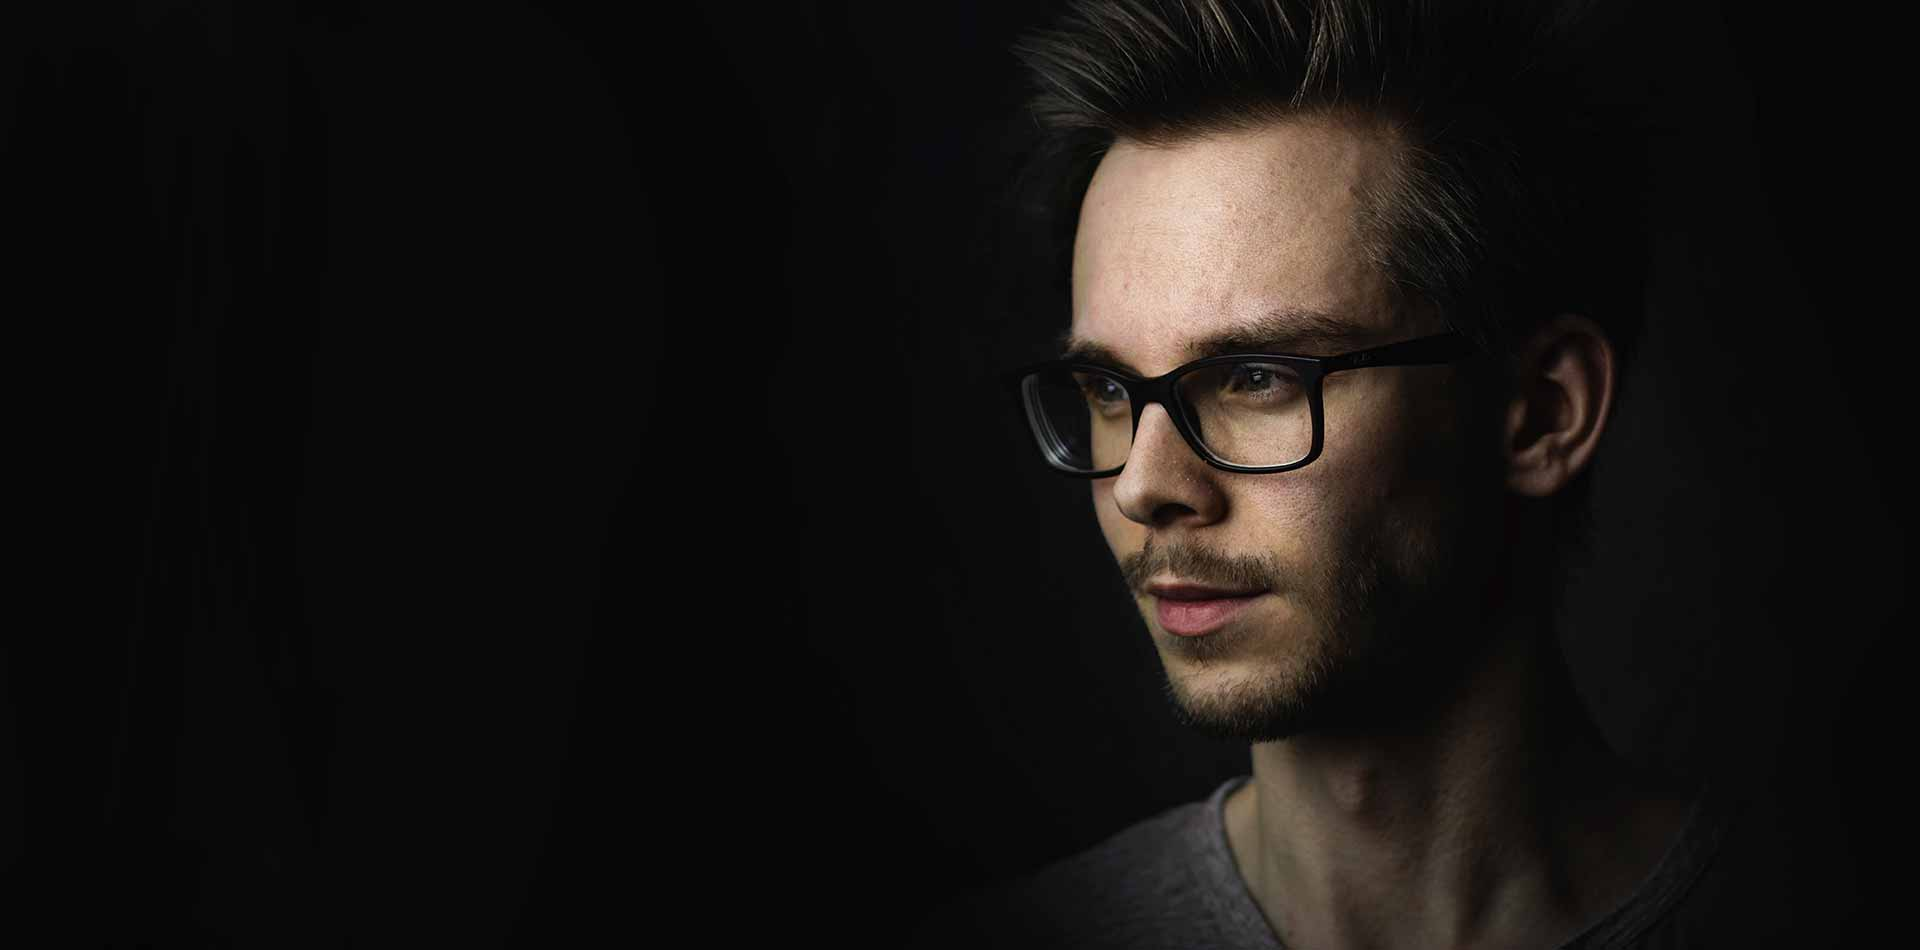
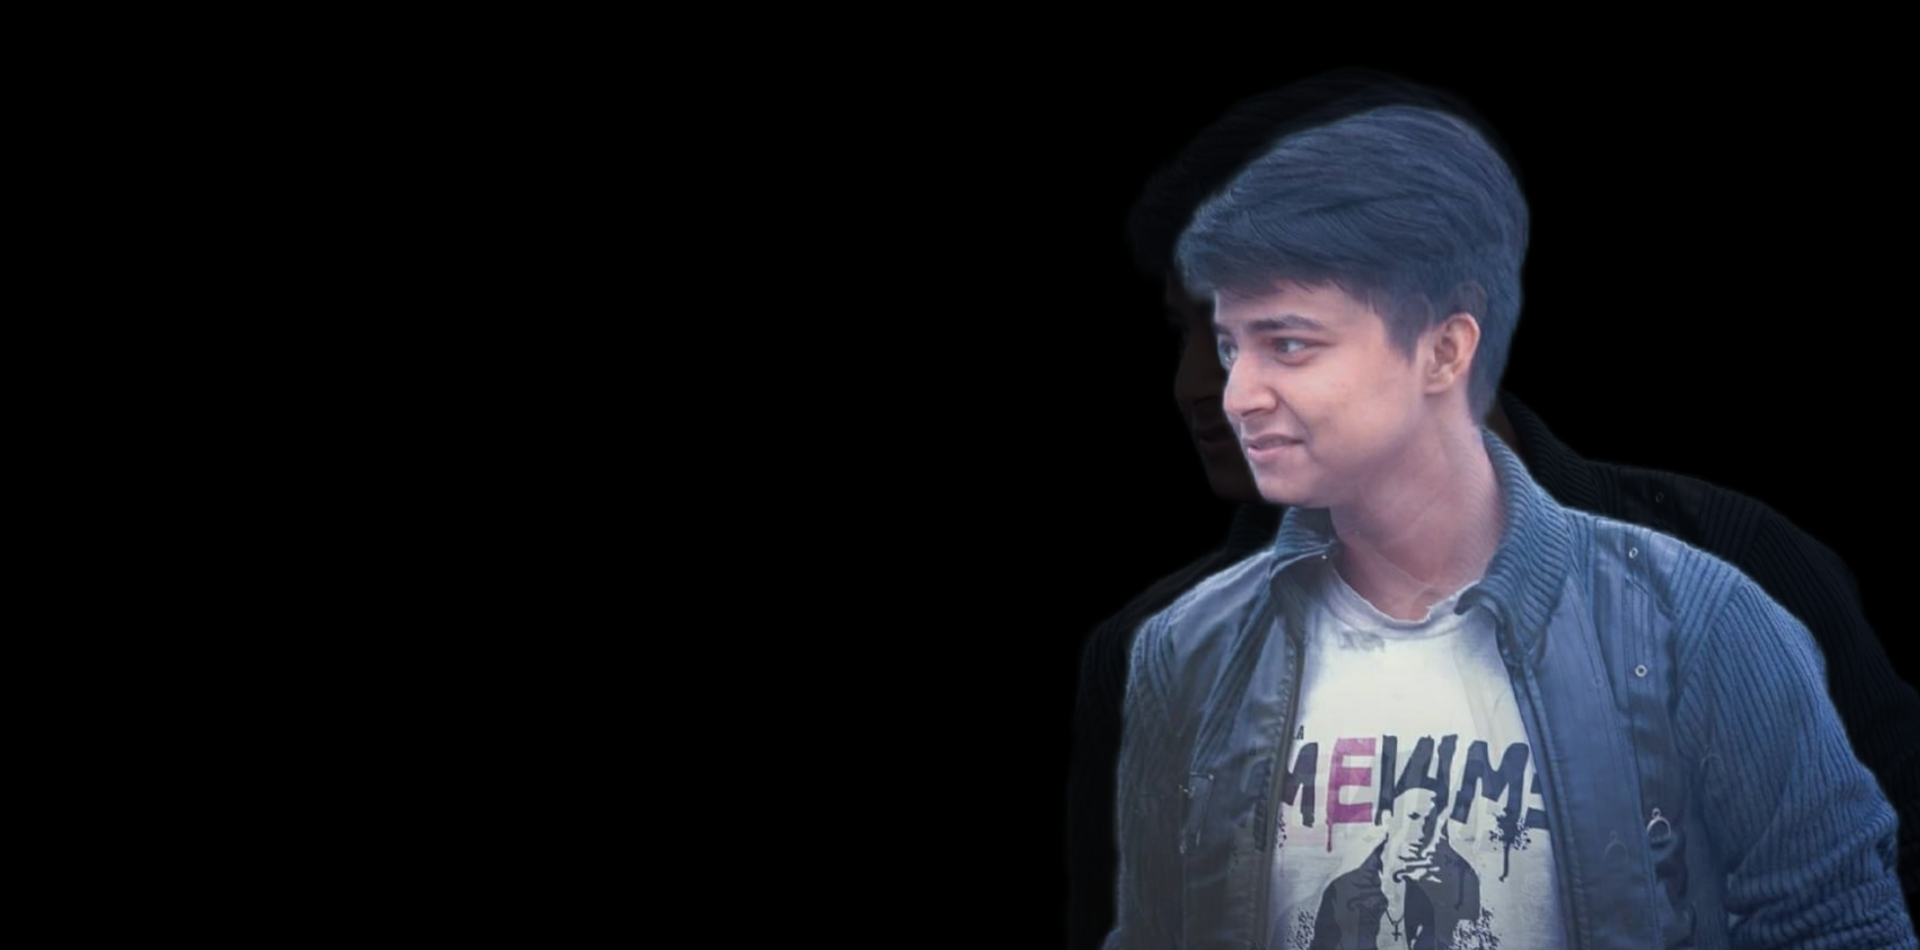
Update

Changed region(s): [[0.5312, 0.0, 1.0, 1.0]]

diff --git a/src/Service.js b/src/Service.js
@@ -6,12 +6,9 @@ function Service() {
     <div className="service component__space" id="Services">
 
       <div className="heading">
-        <h1 className="heading">My Awesome Service</h1>
+        <h1 className="heading">My Skills ?</h1>
         <p className="heading p__color">
-          There are many variations of passages of Lorem Ipsum available,
-        </p>
-        <p className="heading p__color">
-          but the majority have suffered alteration.
+          What do I know ?
         </p>
       </div>
 
@@ -36,14 +33,14 @@ function Service() {
                 </svg>
               </div>
               <div className="service__meta">
-                <h1 className="service__text">Business Stratagy</h1>
+                <h1 className="service__text">Website Development</h1>
                 <p className="p service__text p__color">
-                  I throw myself down among the
+                  I am just a kid who is interested
                 </p>
                 <p className="p service__text p__color">
-                  tall grass by the stream as I lie
+                   in Fullstack Website
                 </p>
-                <p className="p service__text p__color">close to the earth.</p>
+                <p className="p service__text p__color"> Development using MERN.</p>
               </div>
             </div>
           </div>
@@ -68,14 +65,83 @@ function Service() {
                 </svg>
               </div>
               <div className="service__meta">
-                <h1 className="service__text">Website Development</h1>
+                <h1 className="service__text">UI/UX Designing</h1>
                 <p className="p service__text p__color">
-                  I throw myself down among the
+                  I'm also having interest in finding
                 </p>
                 <p className="p service__text p__color">
-                  tall grass by the stream as I lie
+                  creative and practical solutions
                 </p>
-                <p className="p service__text p__color">close to the earth.</p>
+                <p className="p service__text p__color">
+                   to solve the users’ problems.
+                </p>
+              </div>
+            </div>
+          </div>
+
+          <div className="col__3">
+            <div className="service__box pointer">
+              <div className="icon">
+                <svg
+                  stroke="currentColor"
+                  fill="currentColor"
+                  stroke-width="2"
+                  viewBox="0 0 16 16"
+                  class="bi bi-phone"
+                  height="1em"
+                  width="1em"
+                  xmlns="http://www.w3.org/2000/svg"
+                >
+                  <path d="M11 1a1 1 0 0 1 1 1v12a1 1 0 0 1-1 1H5a1 1 0 0 1-1-1V2a1 1 0 0 1 1-1h6zM5 0a2 2 0 0 0-2 2v12a2 2 0 0 0 2 2h6a2 2 0 0 0 2-2V2a2 2 0 0 0-2-2H5z"/>
+                  <path d="M8 14a1 1 0 1 0 0-2 1 1 0 0 0 0 2z"/>
+
+                </svg>
+
+
+              </div>
+              <div className="service__meta">
+                <h1 className="service__text">Mobile App Development</h1>
+                <p className="p service__text p__color">
+                  I'm also trying to build mobile
+                </p>
+                <p className="p service__text p__color">
+                  applications using React Native
+                </p>
+                <p className="p service__text p__color">as well as a bit of Flutter.</p>
+              </div>
+            </div>
+          </div>
+
+
+          <div className="col__3">
+            <div className="service__box pointer">
+              <div className="icon">
+                <svg
+                  stroke="currentColor"
+                  fill="none"
+                  stroke-width="2"
+                  viewBox="0 0 24 24"
+                  stroke-linecap="round"
+                  stroke-linejoin="round"
+                  height="1em"
+                  width="1em"
+                  xmlns="http://www.w3.org/2000/svg"
+                >
+                  <path d="M14 1a1 1 0 0 1 1 1v12a1 1 0 0 1-1 1H2a1 1 0 0 1-1-1V2a1 1 0 0 1 1-1h12zM2 0a2 2 0 0 0-2 2v12a2 2 0 0 0 2 2h12a2 2 0 0 0 2-2V2a2 2 0 0 0-2-2H2z"/>
+                  <path d="M6.854 4.646a.5.5 0 0 1 0 .708L4.207 8l2.647 2.646a.5.5 0 0 1-.708.708l-3-3a.5.5 0 0 1 0-.708l3-3a.5.5 0 0 1 .708 0zm2.292 0a.5.5 0 0 0 0 .708L11.793 8l-2.647 2.646a.5.5 0 0 0 .708.708l3-3a.5.5 0 0 0 0-.708l-3-3a.5.5 0 0 0-.708 0z"/>
+                </svg>
+              </div>
+              <div className="service__meta">
+                <h1 className="service__text">Problem Solving</h1>
+                <p className="p service__text p__color">
+                  I also solve coding problems based on C and C ++ languages on Codechef, Hackerrank,
+                </p>
+                <p className="p service__text p__color">
+                  Codeforces as well as Leetcode.
+                </p>
+                <p className="p service__text p__color">
+
+                </p>
               </div>
             </div>
           </div>
@@ -101,114 +167,21 @@ function Service() {
                 </svg>
               </div>
               <div className="service__meta">
-                <h1 className="service__text">Marketing & Reporting</h1>
+                <h1 className="service__text">Leadership</h1>
                 <p className="p service__text p__color">
-                  I throw myself down among the
+                  I'm also a guy having leadership
                 </p>
                 <p className="p service__text p__color">
-                  tall grass by the stream as I lie
+                  skills who has worked as a team in
                 </p>
-                <p className="p service__text p__color">close to the earth.</p>
+                <p className="p service__text p__color">
+                  hackathons and projects.
+                </p>
               </div>
             </div>
           </div>
 
-          <div className="col__3">
-            <div className="service__box pointer">
-              <div className="icon">
-                <svg
-                  stroke="currentColor"
-                  fill="none"
-                  stroke-width="2"
-                  viewBox="0 0 24 24"
-                  stroke-linecap="round"
-                  stroke-linejoin="round"
-                  height="1em"
-                  width="1em"
-                  xmlns="http://www.w3.org/2000/svg"
-                >
-                  <rect x="2" y="3" width="20" height="14" rx="2" ry="2"></rect>
-                  <line x1="8" y1="21" x2="16" y2="21"></line>
-                  <line x1="12" y1="17" x2="12" y2="21"></line>
-                </svg>
-              </div>
-              <div className="service__meta">
-                <h1 className="service__text">Mobile App Development</h1>
-                <p className="p service__text p__color">
-                  I throw myself down among the
-                </p>
-                <p className="p service__text p__color">
-                  tall grass by the stream as I lie
-                </p>
-                <p className="p service__text p__color">close to the earth.</p>
-              </div>
-            </div>
-          </div>
 
-          <div className="col__3">
-            <div className="service__box pointer">
-              <div className="icon">
-                <svg
-                  stroke="currentColor"
-                  fill="none"
-                  stroke-width="2"
-                  viewBox="0 0 24 24"
-                  stroke-linecap="round"
-                  stroke-linejoin="round"
-                  height="1em"
-                  width="1em"
-                  xmlns="http://www.w3.org/2000/svg"
-                >
-                  <path d="M17 21v-2a4 4 0 0 0-4-4H5a4 4 0 0 0-4 4v2"></path>
-                  <circle cx="9" cy="7" r="4"></circle>
-                  <path d="M23 21v-2a4 4 0 0 0-3-3.87"></path>
-                  <path d="M16 3.13a4 4 0 0 1 0 7.75"></path>
-                </svg>
-              </div>
-              <div className="service__meta">
-                <h1 className="service__text">Marketing & Reporting</h1>
-                <p className="p service__text p__color">
-                  I throw myself down among the
-                </p>
-                <p className="p service__text p__color">
-                  tall grass by the stream as I lie
-                </p>
-                <p className="p service__text p__color">close to the earth.</p>
-              </div>
-            </div>
-          </div>
-
-          <div className="col__3">
-            <div className="service__box pointer">
-              <div className="icon">
-                <svg
-                  stroke="currentColor"
-                  fill="none"
-                  stroke-width="2"
-                  viewBox="0 0 24 24"
-                  stroke-linecap="round"
-                  stroke-linejoin="round"
-                  height="1em"
-                  width="1em"
-                  xmlns="http://www.w3.org/2000/svg"
-                >
-                  <rect x="2" y="3" width="20" height="14" rx="2" ry="2"></rect>
-                  <line x1="8" y1="21" x2="16" y2="21"></line>
-                  <line x1="12" y1="17" x2="12" y2="21"></line>
-                </svg>
-              </div>
-              <div className="service__meta">
-                <h1 className="service__text">Mobile App Development</h1>
-                <p className="p service__text p__color">
-                  I throw myself down among the
-                </p>
-                <p className="p service__text p__color">
-                  tall grass by the stream as I lie
-                </p>
-                <p className="p service__text p__color">close to the earth.</p>
-              </div>
-            </div>
-          </div>
         </div>
       </div>
     </div>

diff --git a/src/About.js b/src/About.js
@@ -17,29 +17,22 @@ function About() {
             <img src={aboutImg} alt="" className="about__img" />
           </div>
           <div className="col__2">
-            <h1 className="about__heading">About Me</h1>
+            <h1 className="about__heading">Who am I ?</h1>
             <div className="about__meta">
               <p className="about__text p__color">
-                There are many variations of passages of Lorem Ipsum available,
-                but the majority have suffered in some form, by injected humour,
-                or randomised words which dont look even slightly believable. If
-                you are going to use a passage of Lorem Ipsum,
+                 I am a B.tech undergrad and right now am pursuing my b.tech in Computer Science from University of Engineering and Management, Kolkata who is interested in Web Development, Problem Solving, UI/UX Design, and Product Management.
               </p>
               <p className="about__text p__color">
-                There are many variations of passages of Lorem Ipsum available,
-                but the majority have suffered in some form, by injected humour,
-                or randomised words which dont look even slightly believable. If
-                you are going to use a passage of Lorem Ipsum,
+                 I am an enthusiastic learner who thinks that quality is the first and foremost attribute which I need in any working professional. I am striving to achieve my milestone. I am willing to collaborate on open source projects and internships.
               </p>
               <p className="about__text p__color">
-                There are many variations of passages of Lorem Ipsum available,
-                but the majority have suffered in some form, by injected humour,
+                Thanks for visiting my website!
               </p>
               <div className="about__button d__flex align__items__center">
-                <a href="#">
-                  <button className="about btn pointer">Download Cv</button>
+                <a href="https://drive">
+                  <button className="about btn pointer">Download CV</button>
                 </a>
-                <a href="#">
+                <a href="mailto:jyotirmoyroy649@gmail.com">
                   <button className="about btn pointer">Hire Me</button>
                 </a>
               </div>

diff --git a/src/Home.js b/src/Home.js
@@ -40,7 +40,7 @@ return (
                 <li className="nav__items mx__15">Contact</li>
               </a>
             </ul>
-          </div>          
+          </div>
         </div>
 
           {/* HOME CONTENT */}
@@ -48,7 +48,7 @@ return (
           <div className="home__content">
             <div className="home__metat">
                 <h1 className="home__text pz__10">
-                  WELCOME TO MY WORLD
+                  WELCOME TO MY WEBSITE
                 </h1>
                 <h2 className="home__text pz__10">
                   Hi, I'm Jyotirmoy Roy
@@ -57,7 +57,7 @@ return (
                   FullStack Developer.
                 </h3>
                 <h4 className="home__text pz__10">
-                  based in INDIA.
+                  
                 </h4>
             </div>
           </div>

diff --git a/src/App.css b/src/App.css
@@ -82,7 +82,7 @@ p {
 }
 
 .sweet {
-  color: #F9004D;
+  color: blueviolet;
 }
 
 .row {
@@ -132,7 +132,7 @@ svg {
 }
 
 strong {
-  color: #F9004D;
+  color: blueviolet;
   font-weight: 600;
 }
 
@@ -144,8 +144,8 @@ button.btn {
   font-size: 18px;
   font-weight: 500;
   border-radius: 5px;
-  border: 2px solid #f9004d;
-  background-color: #f9004d;
+  border: 2px solid blueviolet;
+  background-color: blueviolet;
   color: #fff !important;
   text-transform: uppercase;
   letter-spacing: 2px;

diff --git a/src/About.css b/src/About.css
@@ -21,6 +21,7 @@ button.about.btn.pointer {
   height: 55px;
   font-size: 18px;
   transition: .4s ease;
+  background-color: blueviolet;
 }
 
 .about__button {
@@ -33,7 +34,7 @@ a.bottom__to__top {
   position: fixed;
   bottom: 3%;
   right: 2%;
-  background-color: #F9004D;
+  background-color: blueviolet;
   border-radius: 50%;
   cursor: pointer;
   display: none;

diff --git a/src/Service.css b/src/Service.css
@@ -20,7 +20,7 @@ p.heading.p__color {
 .service__box:hover {
     transform: translateY(5px);
     background-image: linear-gradient(
-90deg,#f61b10,#ef0963);
+90deg,blueviolet,#ef0963);
 }
 .service__box:hover .icon{
     color: #fff;
